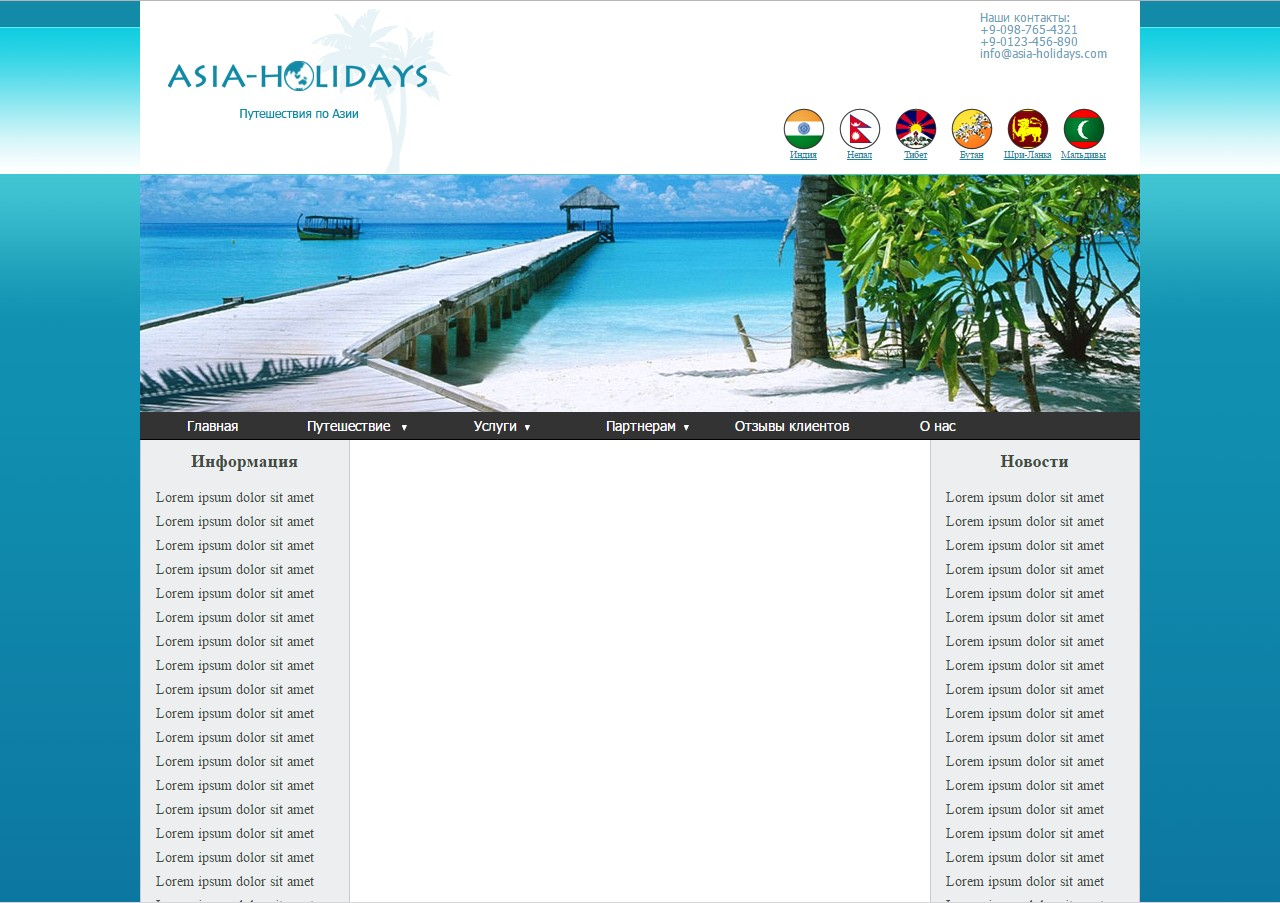
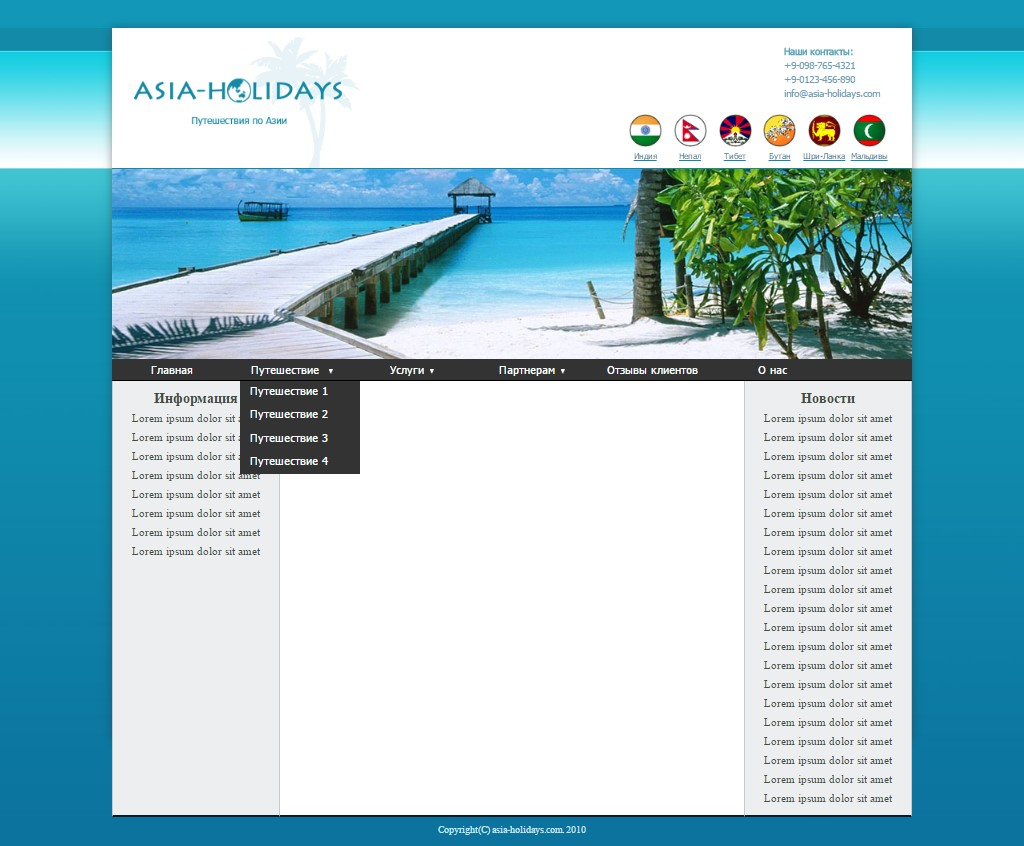
Lesson_4 Пальма, цвет, ссылки,центр текста

Changed region(s): [[0.0, 0.0, 1.0, 1.0]]

diff --git a/Mark/Lesson_4/css/style.css b/Mark/Lesson_4/css/style.css
@@ -5,11 +5,14 @@
 .wrapper {
     margin: 0 auto;
     width: 1280px;
-    height: 1020px;
+    height: 1060px;
     background-image: url("../img/backround.jpg");
 }
+.braus {
+    height: 38px;
+}
 .contaner {
-    margin: 0 auto;
+    margin:0 auto;
     width: 1000px;
     height: 890px;
     -webkit-box-shadow: 0px 0px 16px 0px rgba(50, 50, 50, 0.49);
@@ -27,7 +30,7 @@
 .header_l {
     width: 283px;
     margin-left: 28px;
-    margin-top: 8px;
+    margin-top: 11px;
 }
 .header_r {
     float: right;
@@ -38,13 +41,14 @@
     float: right;
     height: 84px;
     width: 160px;
-    color: #41a1b9;
+    color: #5fa5bb;
     font-family: "Tahoma Regular", serif;
     font-size: 12px;
 }
 .contacts p {
     text-align: left;
     line-height: 18px;
+    color: #5fa5bb;
 }
 .contacts p:first-line{
     font-weight: bold;
@@ -60,17 +64,18 @@
 }
 .navigation li {
     float: left;
-    margin-right: 8px;
+    margin-right: 3px;
 }
 .navigation li a {
     display: block;
     text-align: center;
     font-size: 10px;
-    padding-top: 42px; /* внутренний остту чтобы текст был вне фона */
+    font-family: "Tahoma Regular", serif;
+    padding-top: 47px; /* внутренний остту чтобы текст был вне фона */
     color: #128aa7;
     /* выравниваем фон вверх и по центру */
     background: no-repeat center top;
-    width: 48px; /* размеры указываем чтобы картинки полностью отобразились */
+    width: 53px; /* размеры указываем чтобы картинки полностью отобразились */
     height: 50px;
 }
 .navigation .india a {
@@ -93,13 +98,12 @@
 }
 .picture {
     height: 237px;
+    border-top: 1px solid #128aa7;
+    border-bottom:1px solid #128aa7 ;
 }
 .main_menu {
     height: 29px;
     background-color: #333333;
-    color: #ffffff;
-    font-family: "Tahoma Regular", serif;
-    font-size: 14px;
     border-bottom: 1px solid #000000;
 }
 .menu li {
@@ -107,7 +111,7 @@
     float: left;
     margin-top: 8px;
     text-align: center;
-    width: 145px;
+    width: 150px;
 }
 li.with_sub_menu:after {
     content: url("../img/triangle.png");
@@ -117,19 +121,26 @@ ul.sub_menu{
     display: block;
     position: absolute;
     margin-top: 21px;
-    width: 145px;
+    margin-left: 10px;
+    width: 150px;
 }
 .sub_menu li {
     display: none;
-    padding-top: 8px;
-    margin-top: 0;
+    margin-top:0;
+    padding-top: 5px;
     width: 150px;
     height: 29px;
     background-color: #333333;
 }
+.menu li a {
+    font-family: "Tahoma Regular", serif;
+    font-size: 14px;
+    text-decoration: none;
+    color: #ffffff;
+}
 .sub_menu li a {
-    font-size: 16px;
-    margin-left: 10px;
+    font-size: 14px;
+    margin-left: -27px;
     text-decoration: none;
     color: #ffffff;
 }
@@ -156,9 +167,10 @@ li.with_sub_menu:hover .sub_menu li{
     height: 545px;
 }
 .article {
-    margin-top: 16px;
+    margin-top: 5px;
     margin-left: 15px;
-    margin-right: 24px;
+    margin-right: 15px;
+    text-align: center;
     color: #424c43;
     font-size: 14px;
     line-height: 24px;
@@ -183,6 +195,7 @@ p {
     text-align: center;
     color: #cee3ec;
     font-size: 12px;
+
 }
 
 

diff --git a/Mark/Lesson_4/index.html b/Mark/Lesson_4/index.html
@@ -8,6 +8,7 @@
 </head>
 <body>
     <div class="wrapper">
+        <div class="braus"></div>
         <div class="contaner">
             <div class="header">
                <div class="header_l">
@@ -38,7 +39,7 @@
             </div>
             <div class="main_menu">
                 <ul class="menu">
-                    <li>Главная</li>
+                    <li><a href="#">Главная</a></li>
                     <li class="with_sub_menu">
                         <ul class="sub_menu">
                             <li><a href="#">Путешествие 1</a></li>
@@ -46,12 +47,26 @@
                             <li><a href="#">Путешествие 3</a></li>
                             <li><a href="#">Путешествие 4</a></li>
                         </ul>
-                        Путешествие
+                        <a href="#"> Путешествие</a>
                     </li>
-                    <li class="with_sub_menu">Услуги</li>
-                    <li class="with_sub_menu">Партнерам</li>
-                    <li>Отзывы клиентов</li>
-                    <li>О нас</li>
+                    <li class="with_sub_menu">
+                        <ul class="sub_menu">
+                            <li><a href="#">Услуга 1</a></li>
+                            <li><a href="#">Услуга 2</a></li>
+                            <li><a href="#">Услуга 3</a></li>
+                            <li><a href="#">Услуга 4</a></li>
+                        </ul>
+                        <a href="#">Услуги</a></li>
+                    <li class="with_sub_menu">
+                        <ul class="sub_menu">
+                            <li><a href="#">Партнер 1</a></li>
+                            <li><a href="#">Партнер 2</a></li>
+                            <li><a href="#">Партнер 3</a></li>
+                            <li><a href="#">Партнер 4</a></li>
+                        </ul>
+                        <a href="#">Партнерам</a></li>
+                    <li><a href="#">Отзывы клиентов</a></li>
+                    <li><a href="#">О нас</a></li>
                 </ul>
             </div>
             <div class="content">
